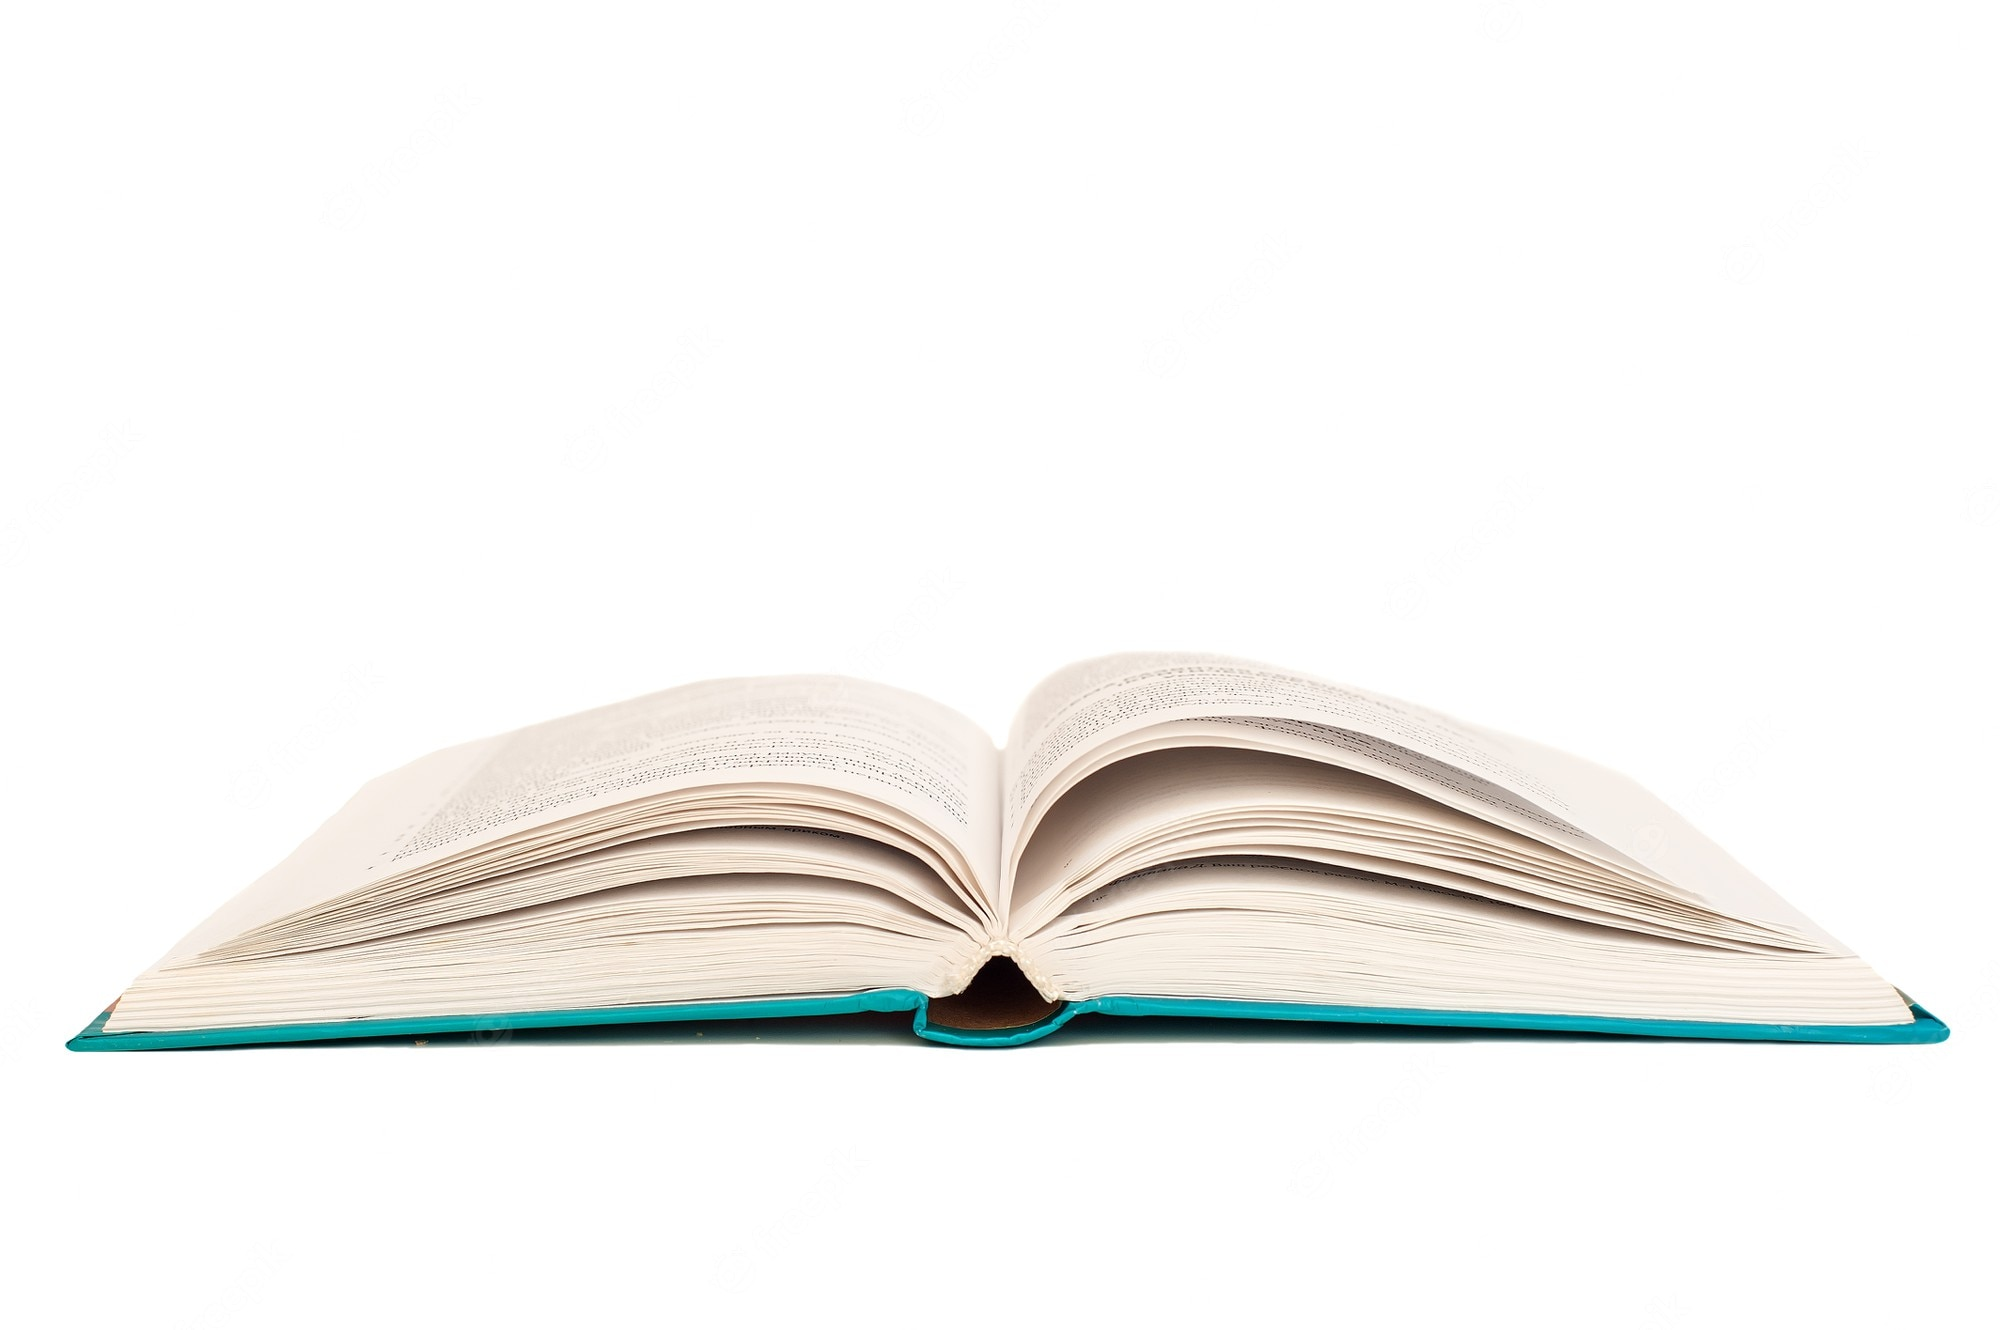
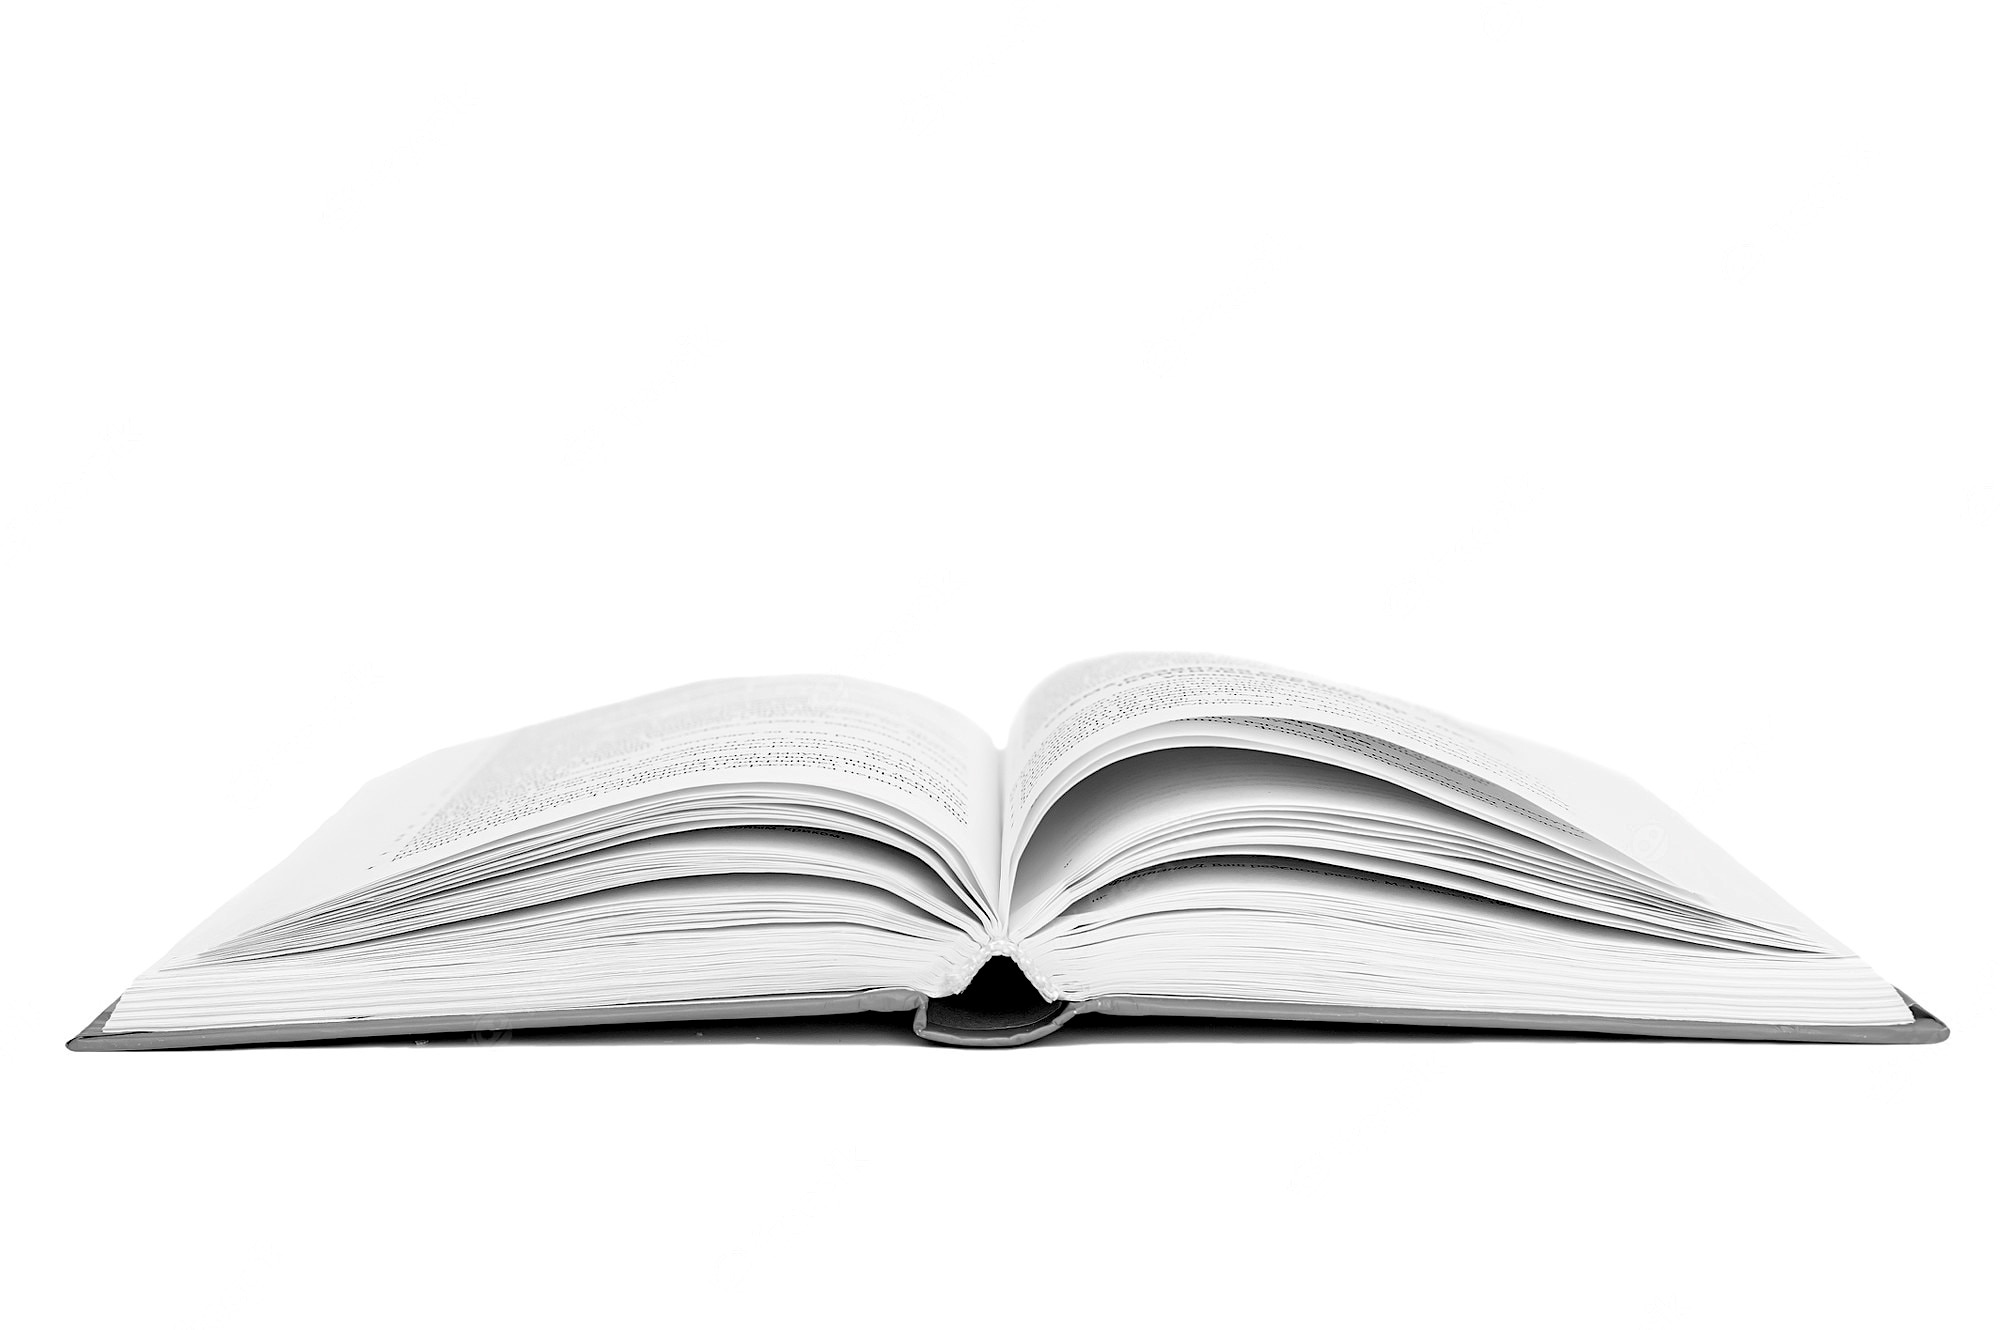
css styling

Changed region(s): [[0.031, 0.5857, 0.992, 0.8015], [0.527, 0.5857, 0.868, 0.709], [0.527, 0.5857, 0.558, 0.6165]]

diff --git a/public/index.html b/public/index.html
@@ -12,36 +12,16 @@
     integrity="sha384-gH2yIJqKdNHPEq0n4Mqa/HGKIhSkIHeL5AyhkYV8i59U5AR6csBvApHHNl/vI1Bx" crossorigin="anonymous">
 
   <link rel="apple-touch-icon" href="%PUBLIC_URL%/logo192.png" />
-  <!--
-      manifest.json provides metadata used when your web app is installed on a
-      user's mobile device or desktop. See https://developers.google.com/web/fundamentals/web-app-manifest/
-    -->
-  <link rel="manifest" href="%PUBLIC_URL%/manifest.json" />
-  <!--
-      Notice the use of %PUBLIC_URL% in the tags above.
-      It will be replaced with the URL of the `public` folder during the build.
-      Only files inside the `public` folder can be referenced from the HTML.
 
-      Unlike "/favicon.ico" or "favicon.ico", "%PUBLIC_URL%/favicon.ico" will
-      work correctly both with client-side routing and a non-root public URL.
-      Learn how to configure a non-root public URL by running `npm run build`.
-    -->
+  <link rel="manifest" href="%PUBLIC_URL%/manifest.json" />
+
   <title>Dictionary App</title>
 </head>
 
 <body>
   <noscript>You need to enable JavaScript to run this app.</noscript>
   <div id="root"></div>
-  <!--
-      This HTML file is a template.
-      If you open it directly in the browser, you will see an empty page.
 
-      You can add webfonts, meta tags, or analytics to this file.
-      The build step will place the bundled scripts into the <body> tag.
-
-      To begin the development, run `npm start` or `yarn start`.
-      To create a production bundle, use `npm run build` or `yarn build`.
-    -->
 </body>
 
 </html>

diff --git a/src/Dictionary.css b/src/Dictionary.css
@@ -2,15 +2,14 @@
   background: white;
   padding: 30px;
   border-radius: 6px;
-  box-shadow: 5px 5px 5px rgba(0, 0, 0, 10%);
   margin: 20px 0;
+  box-shadow: 5px 5px 5px rgba(0, 0, 0, 10%);
 }
 
 .Dictionary input {
   width: 100%;
   border-radius: 6px;
   padding: 6px 10px;
-  border: 1px solid #07afb8;
   color: black;
 }
 
@@ -20,9 +19,9 @@
 }
 
 .Dictionary input.visited {
-  outline: 2px solid #07afb8;
+  outline: 2px solid black;
 }
 
 .Dictionary input:focus {
-  outline: 2px solid #07afb8;
+  outline: 2px solid black;
 }

diff --git a/src/App.css b/src/App.css
@@ -19,11 +19,11 @@ Typical {
 }
 
 .App-footer a:link {
-  color: #07afb8;
+  color: black;
 }
 
 .App-footer a:visited {
-  color: #07afb8;
+  color: black;
 }
 
 @media (max-width: 900px) {
